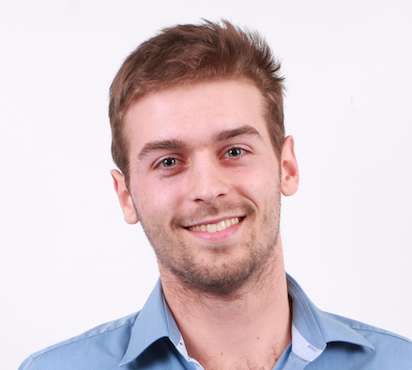
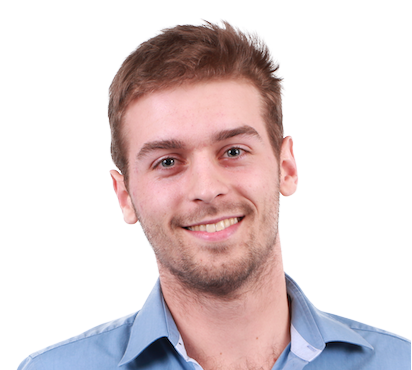
Smooth js transitions, better photo, fix top menu

diff --git a/js/easing.js b/js/easing.js
@@ -1,0 +1,140 @@
+/*
+ * jQuery EasIng v1.1.2 - http://gsgd.co.uk/sandbox/jquery.easIng.php
+ *
+ * Uses the built In easIng capabilities added In jQuery 1.1
+ * to offer multiple easIng options
+ *
+ * Copyright (c) 2007 George Smith
+ * Licensed under the MIT License:
+ *   http://www.opensource.org/licenses/mit-license.php
+ */
+
+// t: current time, b: begInnIng value, c: change In value, d: duration
+
+jQuery.extend( jQuery.easing,
+{
+	easeInQuad: function (x, t, b, c, d) {
+		return c*(t/=d)*t + b;
+	},
+	easeOutQuad: function (x, t, b, c, d) {
+		return -c *(t/=d)*(t-2) + b;
+	},
+	easeInOutQuad: function (x, t, b, c, d) {
+		if ((t/=d/2) < 1) return c/2*t*t + b;
+		return -c/2 * ((--t)*(t-2) - 1) + b;
+	},
+	easeInCubic: function (x, t, b, c, d) {
+		return c*(t/=d)*t*t + b;
+	},
+	easeOutCubic: function (x, t, b, c, d) {
+		return c*((t=t/d-1)*t*t + 1) + b;
+	},
+	easeInOutCubic: function (x, t, b, c, d) {
+		if ((t/=d/2) < 1) return c/2*t*t*t + b;
+		return c/2*((t-=2)*t*t + 2) + b;
+	},
+	easeInQuart: function (x, t, b, c, d) {
+		return c*(t/=d)*t*t*t + b;
+	},
+	easeOutQuart: function (x, t, b, c, d) {
+		return -c * ((t=t/d-1)*t*t*t - 1) + b;
+	},
+	easeInOutQuart: function (x, t, b, c, d) {
+		if ((t/=d/2) < 1) return c/2*t*t*t*t + b;
+		return -c/2 * ((t-=2)*t*t*t - 2) + b;
+	},
+	easeInQuint: function (x, t, b, c, d) {
+		return c*(t/=d)*t*t*t*t + b;
+	},
+	easeOutQuint: function (x, t, b, c, d) {
+		return c*((t=t/d-1)*t*t*t*t + 1) + b;
+	},
+	easeInOutQuint: function (x, t, b, c, d) {
+		if ((t/=d/2) < 1) return c/2*t*t*t*t*t + b;
+		return c/2*((t-=2)*t*t*t*t + 2) + b;
+	},
+	easeInSine: function (x, t, b, c, d) {
+		return -c * Math.cos(t/d * (Math.PI/2)) + c + b;
+	},
+	easeOutSine: function (x, t, b, c, d) {
+		return c * Math.sin(t/d * (Math.PI/2)) + b;
+	},
+	easeInOutSine: function (x, t, b, c, d) {
+		return -c/2 * (Math.cos(Math.PI*t/d) - 1) + b;
+	},
+	easeInExpo: function (x, t, b, c, d) {
+		return (t==0) ? b : c * Math.pow(2, 10 * (t/d - 1)) + b;
+	},
+	easeOutExpo: function (x, t, b, c, d) {
+		return (t==d) ? b+c : c * (-Math.pow(2, -10 * t/d) + 1) + b;
+	},
+	easeInOutExpo: function (x, t, b, c, d) {
+		if (t==0) return b;
+		if (t==d) return b+c;
+		if ((t/=d/2) < 1) return c/2 * Math.pow(2, 10 * (t - 1)) + b;
+		return c/2 * (-Math.pow(2, -10 * --t) + 2) + b;
+	},
+	easeInCirc: function (x, t, b, c, d) {
+		return -c * (Math.sqrt(1 - (t/=d)*t) - 1) + b;
+	},
+	easeOutCirc: function (x, t, b, c, d) {
+		return c * Math.sqrt(1 - (t=t/d-1)*t) + b;
+	},
+	easeInOutCirc: function (x, t, b, c, d) {
+		if ((t/=d/2) < 1) return -c/2 * (Math.sqrt(1 - t*t) - 1) + b;
+		return c/2 * (Math.sqrt(1 - (t-=2)*t) + 1) + b;
+	},
+	easeInElastic: function (x, t, b, c, d) {
+		var s=1.70158;var p=0;var a=c;
+		if (t==0) return b;  if ((t/=d)==1) return b+c;  if (!p) p=d*.3;
+		if (a < Math.abs(c)) { a=c; var s=p/4; }
+		else var s = p/(2*Math.PI) * Math.asin (c/a);
+		return -(a*Math.pow(2,10*(t-=1)) * Math.sin( (t*d-s)*(2*Math.PI)/p )) + b;
+	},
+	easeOutElastic: function (x, t, b, c, d) {
+		var s=1.70158;var p=0;var a=c;
+		if (t==0) return b;  if ((t/=d)==1) return b+c;  if (!p) p=d*.3;
+		if (a < Math.abs(c)) { a=c; var s=p/4; }
+		else var s = p/(2*Math.PI) * Math.asin (c/a);
+		return a*Math.pow(2,-10*t) * Math.sin( (t*d-s)*(2*Math.PI)/p ) + c + b;
+	},
+	easeInOutElastic: function (x, t, b, c, d) {
+		var s=1.70158;var p=0;var a=c;
+		if (t==0) return b;  if ((t/=d/2)==2) return b+c;  if (!p) p=d*(.3*1.5);
+		if (a < Math.abs(c)) { a=c; var s=p/4; }
+		else var s = p/(2*Math.PI) * Math.asin (c/a);
+		if (t < 1) return -.5*(a*Math.pow(2,10*(t-=1)) * Math.sin( (t*d-s)*(2*Math.PI)/p )) + b;
+		return a*Math.pow(2,-10*(t-=1)) * Math.sin( (t*d-s)*(2*Math.PI)/p )*.5 + c + b;
+	},
+	easeInBack: function (x, t, b, c, d, s) {
+		if (s == undefined) s = 1.70158;
+		return c*(t/=d)*t*((s+1)*t - s) + b;
+	},
+	easeOutBack: function (x, t, b, c, d, s) {
+		if (s == undefined) s = 1.70158;
+		return c*((t=t/d-1)*t*((s+1)*t + s) + 1) + b;
+	},
+	easeInOutBack: function (x, t, b, c, d, s) {
+		if (s == undefined) s = 1.70158; 
+		if ((t/=d/2) < 1) return c/2*(t*t*(((s*=(1.525))+1)*t - s)) + b;
+		return c/2*((t-=2)*t*(((s*=(1.525))+1)*t + s) + 2) + b;
+	},
+	easeInBounce: function (x, t, b, c, d) {
+		return c - jQuery.easing.easeOutBounce (x, d-t, 0, c, d) + b;
+	},
+	easeOutBounce: function (x, t, b, c, d) {
+		if ((t/=d) < (1/2.75)) {
+			return c*(7.5625*t*t) + b;
+		} else if (t < (2/2.75)) {
+			return c*(7.5625*(t-=(1.5/2.75))*t + .75) + b;
+		} else if (t < (2.5/2.75)) {
+			return c*(7.5625*(t-=(2.25/2.75))*t + .9375) + b;
+		} else {
+			return c*(7.5625*(t-=(2.625/2.75))*t + .984375) + b;
+		}
+	},
+	easeInOutBounce: function (x, t, b, c, d) {
+		if (t < d/2) return jQuery.easing.easeInBounce (x, t*2, 0, c, d) * .5 + b;
+		return jQuery.easing.easeOutBounce (x, t*2-d, 0, c, d) * .5 + c*.5 + b;
+	}
+});

diff --git a/index.html b/index.html
@@ -56,9 +56,9 @@
                             <div class="nav-item-front">
                                 <i class="fa fa-user" aria-hidden="true"></i>
                             </div>
-                            <!--<div class="nav-item-back">
-                                <h3><a href="#">PRESENTATION</a></h3>
-                            </div>-->
+                            <div class="nav-item-back">
+                                <h3><a class="scroll" href="#presentation">ABOUT</a></h3>
+                            </div>
                         </div>
                     </div>
                     <div class="col-sm-2 col-xs-4">
@@ -66,6 +66,9 @@
                             <!--Skills-->
                             <div class="nav-item-front">
                                 <i class="fa fa-signal" aria-hidden="true"></i>
+                            </div>
+                            <div class="nav-item-back">
+                                <h3><a class="scroll" href="#skills">SKILLS</a></h3>
                             </div>
                         </div>
                     </div>
@@ -75,6 +78,9 @@
                             <div class="nav-item-front">
                                 <i class="fa fa-file" aria-hidden="true"></i>
                             </div>
+                            <div class="nav-item-back">
+                                <h3><a class="scroll" href="#resume">RESUME</a></h3>
+                            </div>
                         </div>
                     </div>
                     <div class="col-sm-2 col-xs-4 col-sm-offset-0 col-xs-offset-2">
@@ -83,12 +89,19 @@
                             <div class="nav-item-front">
                                 <i class="fa fa-suitcase" aria-hidden="true"></i>
                             </div>
+                            <div class="nav-item-back">
+                                <h3><a class="scroll" href="#work">WORK</a></h3>
+                            </div>
                         </div>
                     </div>
                     <div class="col-sm-2 col-xs-4">
                         <div class="nav-item">
+                            <!--Contact-->
                             <div class="nav-item-front">
                                 <i class="fa fa-phone" aria-hidden="true"></i>
+                            </div>
+                            <div class="nav-item-back">
+                                <h3><a class="scroll" href="#contact">CONTACT</a></h3>
                             </div>
                         </div>
                     </div>
@@ -287,7 +300,7 @@
     <!-- Bootstrap --> <script type="text/javascript" src="js/bootstrap.min.js"></script>
 
     <!-- typed.js - Animated text -->
-        <script type="text/javascript" src="js/typed.min.js"></script>
+        <script src="js/typed.min.js"></script>
         <script>
             $(function(){
                 $("#header h2 span").typed({
@@ -342,6 +355,18 @@
             });
         </script>
     <!-- //Waypoints (trigger event on scroll) -->
+
+    <!-- Smooth-Scrolling-JavaScript -->
+        <script src="js/easing.js"></script>
+        <script>
+            $(function($) {
+                $(".scroll").click(function(event){
+                    event.preventDefault();
+                    $('html,body').animate({scrollTop:$(this.hash).offset().top},1000);
+                });
+            });
+        </script>
+    <!-- //Smooth-Scrolling-JavaScript -->
 
 <!-- //Custom-JavaScript-File-Links -->
 

diff --git a/css/style.css b/css/style.css
@@ -132,6 +132,7 @@
 	}
 
 	#header .navigation .nav-item {
+		position: relative;
 		display: inline-block;
 		width: 100px;
 		height: 100px;
@@ -152,7 +153,24 @@
 	}
 
 	#header .navigation .nav-item .nav-item-back {
+		position: absolute;
+		top: 0;
+		bottom: 0;
+		right: 0;
+		left: 0;
 		opacity: 0;
+		background: rgba(0, 0, 0, 0.5);
+		pointer-events: none;
+		-webkit-transform: scale(1.5);
+		-moz-transform: scale(1.5);
+		-o-transform: scale(1.5);
+		-ms-transform: scale(1.5);
+		transform: scale(1.5);
+		-webkit-transition: all 0.4s ease-in-out 0.2s;
+		-moz-transition: all 0.4s ease-in-out 0.2s;
+		-o-transition: all 0.4s ease-in-out 0.2s;
+		-ms-transition: all 0.4s ease-in-out 0.2s;
+		transition: all 0.4s ease-in-out 0.2s;
 	}
 
 	#header .navigation .nav-item:hover .nav-item-front {
@@ -172,6 +190,17 @@
 		transform: scale(1);
 		opacity: 1;
 		pointer-events: auto;
+	}
+
+	#header .navigation .nav-item-back h3 {
+		font-family: 'Montserrat', sans-serif;
+		font-size: 18px;
+		font-weight: 700;
+		margin-top: 35px;
+	}
+
+	#header .navigation .nav-item-back h3 a {
+		color: #607D8B;
 	}
 
 	/*-- //Navigation --*/
@@ -495,34 +524,34 @@
 		font-size: 15px;
 		line-height: 25px;
 	}
-	
+
 /*-- //Footer Section --*/
 
 
 
 /*-- Typed Cursor header --*/
 
-.typed-cursor{
-	color: black;
-    opacity: 1;
-    -webkit-animation: blink 0.7s infinite;
-    -moz-animation: blink 0.7s infinite;
-    animation: blink 0.7s infinite;
-}
-@keyframes blink{
-    0% { opacity:1; }
-    50% { opacity:0; }
-    100% { opacity:1; }
-}
-@-webkit-keyframes blink{
-    0% { opacity:1; }
-    50% { opacity:0; }
-    100% { opacity:1; }
-}
-@-moz-keyframes blink{
-    0% { opacity:1; }
-    50% { opacity:0; }
-    100% { opacity:1; }
-}
+	.typed-cursor{
+		color: black;
+		opacity: 1;
+		-webkit-animation: blink 0.7s infinite;
+		-moz-animation: blink 0.7s infinite;
+		animation: blink 0.7s infinite;
+	}
+	@keyframes blink{
+		0% { opacity:1; }
+		50% { opacity:0; }
+		100% { opacity:1; }
+	}
+	@-webkit-keyframes blink{
+		0% { opacity:1; }
+		50% { opacity:0; }
+		100% { opacity:1; }
+	}
+	@-moz-keyframes blink{
+		0% { opacity:1; }
+		50% { opacity:0; }
+		100% { opacity:1; }
+	}
 
 /*-- //Typed Cursor header --*/
